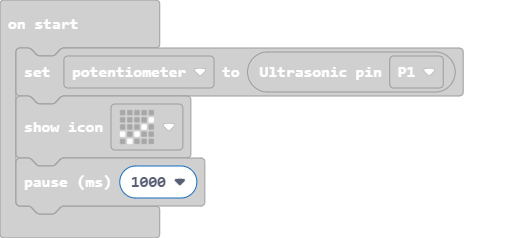
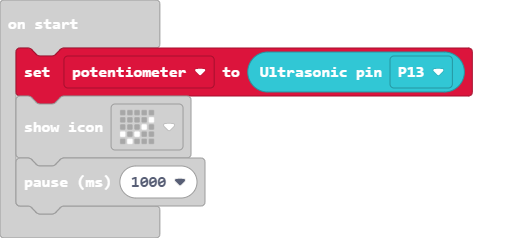
Update main.blocks, main.ts

diff --git a/main.ts b/main.ts
@@ -1,4 +1,4 @@
-let potentiometer = robotbit.RgbUltrasonic(DigitalPin.P1)
+let potentiometer = robotbit.RgbUltrasonic(DigitalPin.P13)
 basic.showIcon(IconNames.Yes)
 basic.pause(1000)
 basic.forever(function () {
